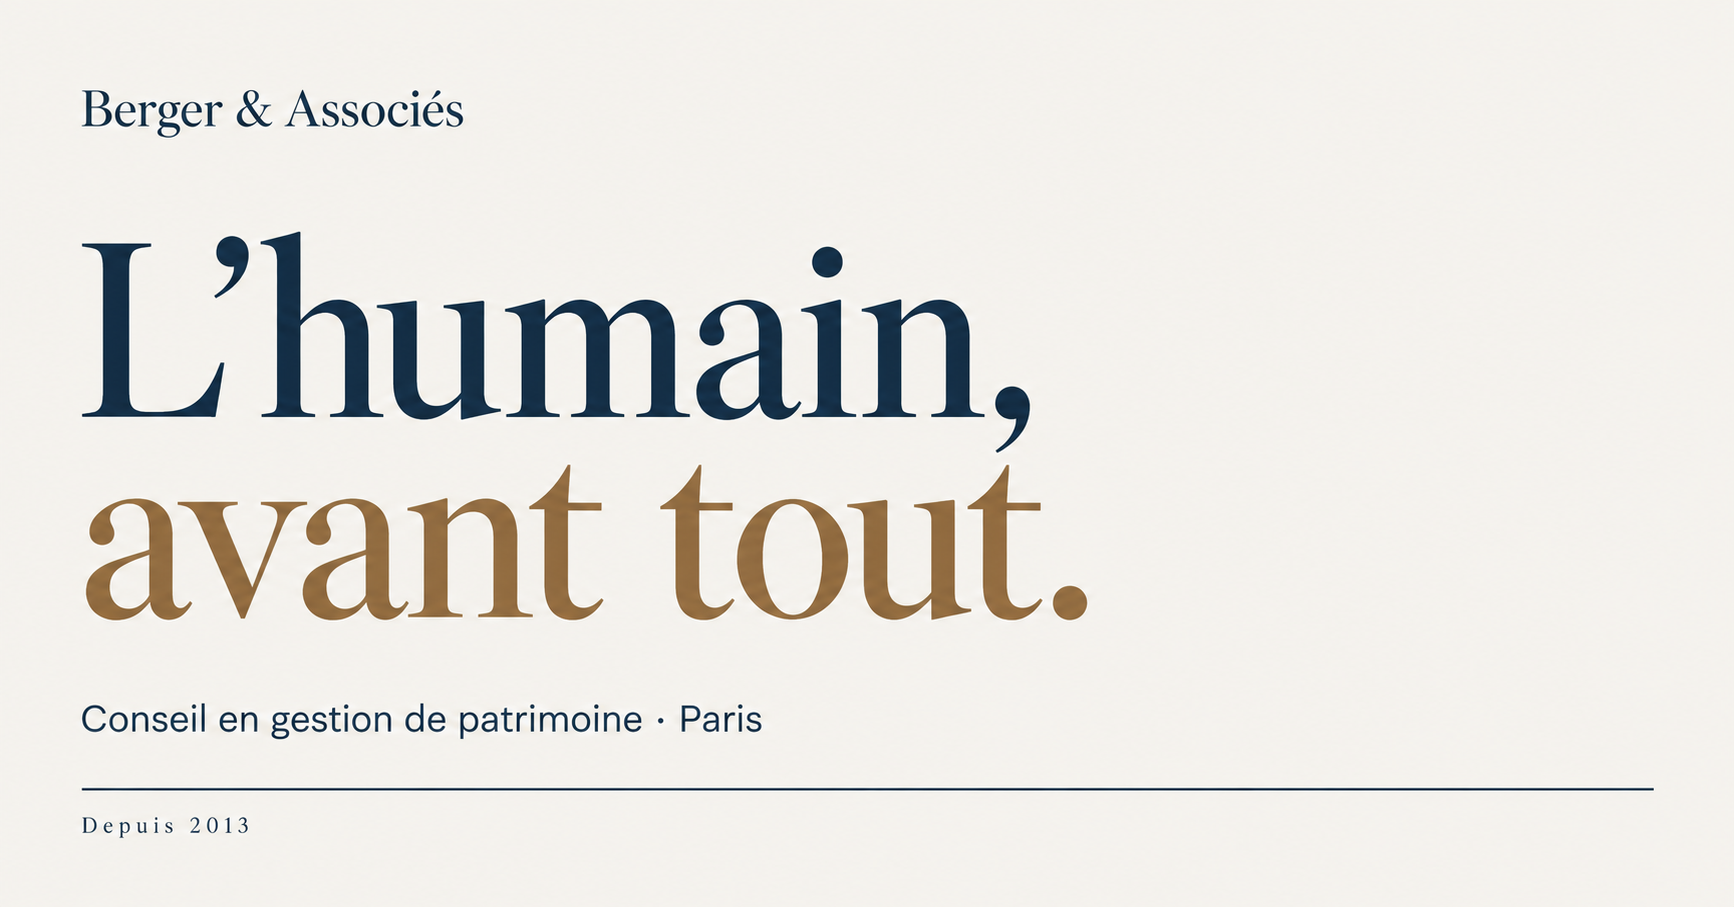
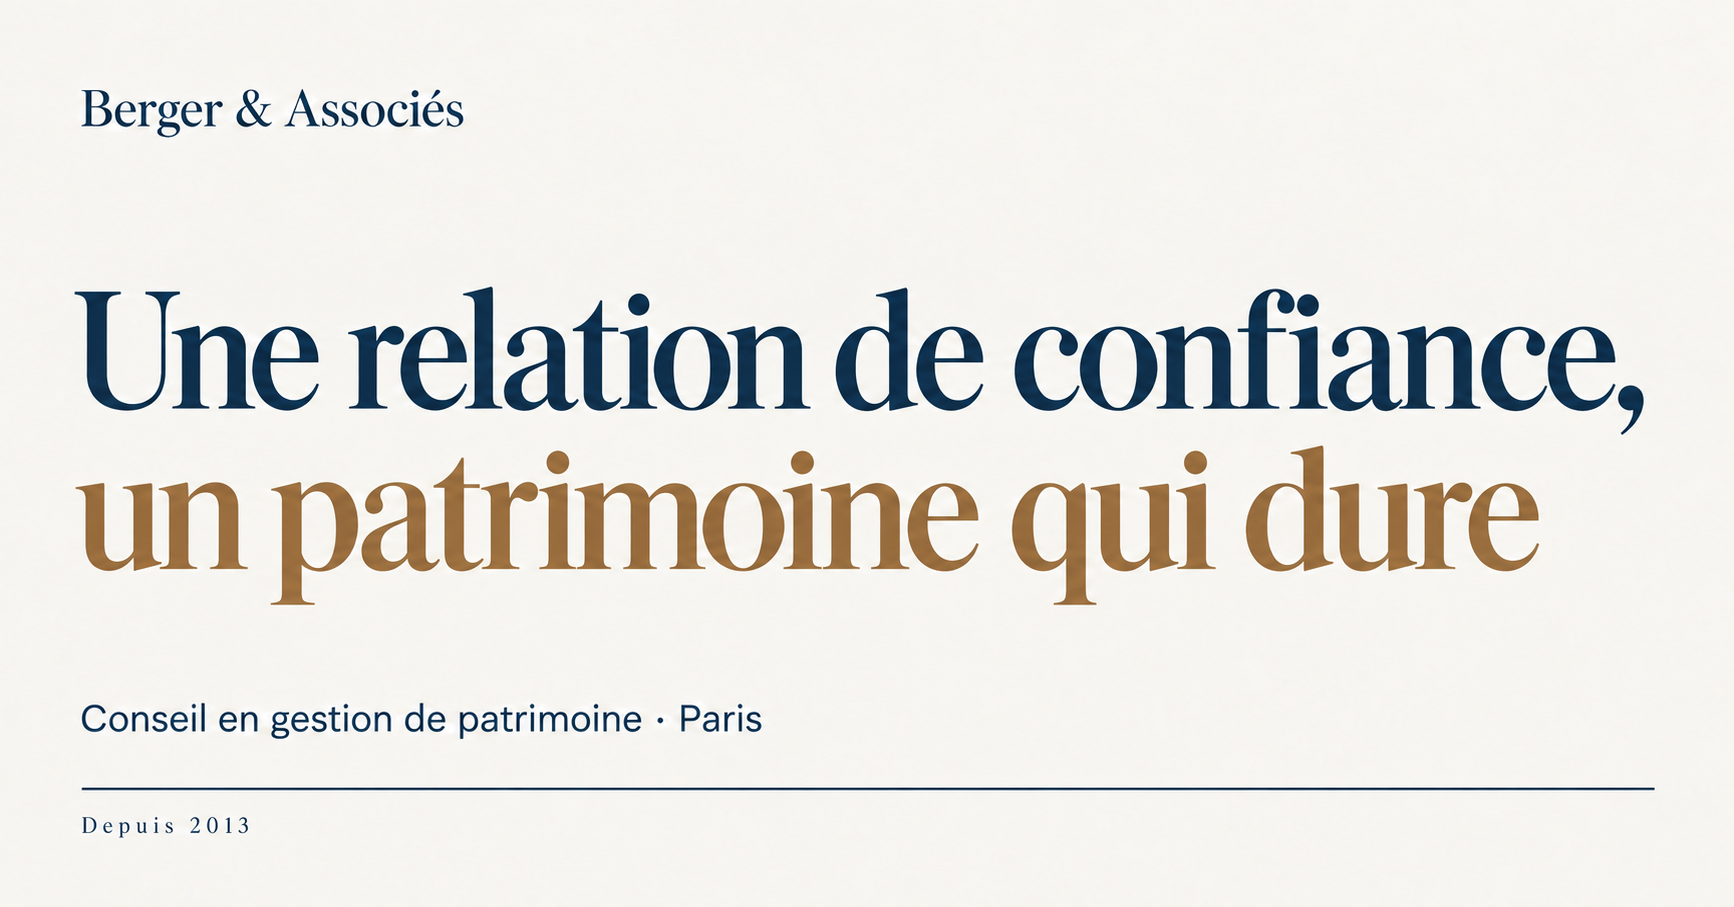
Intègre les retours de Marine sur les textes et les contacts

diff --git a/src/styles/home.css b/src/styles/home.css
@@ -1,7 +1,7 @@
 .hero { padding-top: clamp(3rem, 5.5vw, 5.5rem); }
 .hero__grid { display: grid; grid-template-columns: 1fr 1.05fr; gap: clamp(2rem, 5vw, 5rem); align-items: center; }
 .hero__copy { padding-block: 1.5rem; }
-.hero__title { font-family: var(--ff-serif); font-size: clamp(4.5rem, 7.2vw, 7.7rem); line-height: .97; font-weight: 400; letter-spacing: -.052em; margin: 2rem 0 1.7rem; }
+.hero__title { font-family: var(--ff-serif); font-size: clamp(3.2rem, 5.2vw, 5.5rem); line-height: 1.02; font-weight: 400; letter-spacing: -.04em; margin: 2rem 0 1.7rem; text-wrap: balance; }
 .hero__title em { font-style: normal; color: #896D49; }
 .hero__lead { font-size: 1rem; line-height: 1.85; color: var(--c-fg-muted); max-width: 410px; margin-bottom: 2rem; }
 .hero__signature { color: var(--c-fg-muted); font-size: .73rem; margin-top: 1.5rem; }
@@ -43,22 +43,23 @@
 .approach__step-label::before { content: '0' counter(steps) ' / '; margin-right: .5rem; }
 .approach__steps h3 { font-family: var(--ff-serif); font-weight: 400; font-size: 2.3rem; line-height: 1.12; letter-spacing: -.025em; margin-bottom: 1rem; }
 .approach__steps p { font-size: .88rem; color: var(--c-fg-muted); line-height: 1.85; max-width: 330px; }
-.approach__note { margin-top: 3rem; border-top: 1px solid #CCC6BC; padding-top: 1.2rem; color: var(--c-fg-muted); font-size: .76rem; }
+.approach__note { margin-top: 3rem; border-top: 1px solid #CCC6BC; padding-top: 1.2rem; color: var(--c-fg-muted); font-size: .9rem; line-height: 1.85; max-width: 860px; }
 
-.associates__inner { display: grid; grid-template-columns: 1fr 1.2fr; gap: clamp(3rem, 8vw, 8rem); }
+.associates__inner { display: grid; grid-template-columns: minmax(0, 1fr) minmax(0, 1.2fr); gap: clamp(3rem, 8vw, 8rem); align-items: start; }
 .associates__intro .section-title { margin-top: 1.5rem; }
 .associates__intro > p:not(.eyebrow) { font-size: .93rem; line-height: 1.85; color: var(--c-fg-muted); max-width: 325px; margin-top: 1.5rem; }
 .associates__location { display: block; font-size: .72rem; margin-top: 3rem; color: var(--c-fg-muted); }
 .associates__location sup { font-size: .65em; }
 .associates__list { list-style: none; }
-.associates__list li { border-top: 1px solid var(--c-divider); }
+.associates__list li { border-top: 1px solid var(--c-divider); padding-block: 1.8rem 2rem; }
 .associates__list li:last-child { border-bottom: 1px solid var(--c-divider); }
-.associates__list a { display: flex; justify-content: space-between; align-items: center; gap: 1rem; color: var(--c-navy); text-decoration: none; padding: 1.65rem .2rem; transition: color var(--dur-fast); }
+.associates__list a { display: flex; width: fit-content; max-width: 100%; align-items: center; gap: 1rem; color: var(--c-navy); text-decoration: none; padding-block: .5rem; transition: color var(--dur-fast); }
 .associates__list a:hover { color: var(--c-accent); opacity: 1; }
-.associates__identity { display: flex; flex-direction: column; align-items: flex-start; }
-.associates__role { font-size: .62rem; text-transform: uppercase; letter-spacing: .13em; color: var(--c-fg-muted); }
-.associates__name { font-family: var(--ff-serif); font-size: clamp(2.05rem, 3vw, 2.8rem); letter-spacing: -.025em; line-height: 1.3; margin-block: .3rem; }
-.associates__email { font-size: .72rem; color: var(--c-fg-muted); overflow-wrap: anywhere; }
+.associates__role { font-size: .78rem; line-height: 1.6; color: var(--c-fg-muted); }
+.associates__name { font-family: var(--ff-serif); font-weight: 400; font-size: clamp(2.05rem, 3vw, 2.8rem); letter-spacing: -.025em; line-height: 1.2; margin-bottom: .55rem; }
+.associates__biography { margin-block: 1.2rem .8rem; color: var(--c-fg-muted); font-size: .9rem; line-height: 1.85; }
+.associates__biography p + p { margin-top: .85rem; }
+.associates__email { font-size: .76rem; overflow-wrap: anywhere; }
 .associates__arrow { font-size: 1.55rem; }
 
 .contact { padding-block: clamp(4rem, 7vw, 6.5rem); background: #E8E4DB; }
@@ -69,7 +70,12 @@
 .contact__address-label { font-size: .67rem; text-transform: uppercase; letter-spacing: .12em; color: var(--c-fg-muted); }
 .contact__address address { display: flex; flex-direction: column; font-style: normal; gap: .75rem; padding-block: 1.3rem 1.7rem; font-size: 1.1rem; line-height: 1.6; }
 .contact__street-number { font-family: var(--ff-serif); font-size: 6rem; line-height: .9; }
-.contact__email { display: block; width: fit-content; margin-top: 2.5rem; font-size: .82rem; color: var(--c-fg); overflow-wrap: anywhere; text-decoration-color: #A0A09A; }
+.contact__people { list-style: none; max-width: 430px; }
+.contact__people li { border-top: 1px solid #BDB7AC; }
+.contact__people li:last-child { border-bottom: 1px solid #BDB7AC; }
+.contact__people a { display: flex; flex-direction: column; gap: .25rem; padding-block: .85rem; color: var(--c-fg); text-decoration: none; }
+.contact__people a span:first-child { font-size: .94rem; font-weight: 500; }
+.contact__people a span:last-child { font-size: .8rem; overflow-wrap: anywhere; }
 
 @media (max-width: 1000px) {
   .hero__grid { gap: 2rem; }
@@ -82,7 +88,7 @@
 @media (max-width: 900px) {
   .hero__grid { grid-template-columns: 1fr; gap: 2.5rem; }
   .hero__copy { padding-block: 0; }
-  .hero__title { font-size: clamp(4.6rem, 12vw, 7rem); }
+  .hero__title { font-size: clamp(3.2rem, 7.8vw, 5.5rem); max-width: 720px; }
   .hero__lead { max-width: 510px; }
   .hero__portraits { width: 100%; max-width: 660px; justify-self: end; }
   .hero__portrait img { height: clamp(310px, 60vw, 485px); }
@@ -96,11 +102,10 @@
   .contact__address { border-left: 0; border-top: 1px solid #BDB7AC; padding: 2.5rem 0 0; margin-top: 1rem; }
   .contact__address address { flex-direction: row; align-items: center; gap: 1.5rem; }
   .contact__street-number { font-size: 5rem; }
-  .contact__email { margin-top: 1.5rem; }
 }
 @media (max-width: 620px) {
   .hero { padding-top: 2.4rem; }
-  .hero__title { margin-top: 1.5rem; }
+  .hero__title { margin-top: 1.5rem; font-size: clamp(2.6rem, 9.5vw, 3.65rem); }
   .hero__portraits { gap: .8rem; }
   .hero__portrait img { height: 70vw; max-height: 370px; }
   .hero__portrait figcaption { font-size: .75rem; padding-top: .7rem; }
@@ -117,6 +122,4 @@
   .approach__steps { gap: 2rem; }
   .approach__step-label { margin-bottom: 1rem; }
   .approach__steps p { max-width: 100%; }
-  .associates__list a { padding-block: 1.45rem; }
-  .associates__email { font-size: .66rem; }
 }

diff --git a/src/data/associates.ts b/src/data/associates.ts
@@ -1,0 +1,34 @@
+export const associates = [
+  {
+    id: 'fabien-berger',
+    name: 'Fabien Berger',
+    contactName: 'Fabien Berger',
+    role: 'Conseiller en gestion de patrimoine, associé fondateur',
+    email: 'fabien.berger@berger-associes.fr',
+    biography: [
+      'J’ai fondé Berger & Associés en 2013. Au fil des années, j’ai constitué une équipe aux profils complémentaires, réunie autour d’une approche transversale de la gestion de patrimoine et d’une relation durable avec nos clients.',
+    ],
+  },
+  {
+    id: 'sabine-tellier',
+    name: 'Sabine Tellier',
+    contactName: 'Sabine Tellier',
+    role: 'Conseillère en gestion de patrimoine, associée',
+    email: 'sabine.tellier@berger-associes.fr',
+    biography: [
+      'Associée de Berger & Associés depuis 2016, je participe à la direction du cabinet et accompagne personnellement mes clients dans leurs décisions patrimoniales.',
+    ],
+  },
+  {
+    id: 'marine-gorin',
+    name: 'Marine Gorin (Guillo)',
+    contactName: 'Marine Gorin',
+    role: 'Conseillère en gestion de patrimoine, associée',
+    email: 'marine.gorin@berger-associes.fr',
+    biography: [
+      'Banquier privé chez BNP Paribas pendant sept ans, j’ai rejoint la gestion de patrimoine indépendante en 2022 pour conseiller mes clients avec plus de liberté et de sur-mesure.',
+      'Titulaire d’un Master 2 en gestion de patrimoine (IAE Gustave Eiffel, 2015) et des certifications AMF et EFPA, j’accompagne mes clients dans la construction de leur stratégie patrimoniale, en m’appuyant sur une veille juridique et fiscale permanente.',
+      'Je conseille également sur le choix des enveloppes d’investissement (assurance-vie, PER, PEA, compte-titres…) et construis des allocations d’actifs adaptées à chaque profil.',
+    ],
+  },
+];

diff --git a/tests/privacy-and-navigation.spec.ts b/tests/privacy-and-navigation.spec.ts
@@ -31,7 +31,7 @@ test('sur mobile, le menu permet de rejoindre les associés et se referme', asyn
   await page.getByRole('navigation', { name: 'Navigation principale mobile' }).getByRole('link', { name: 'Les associés' }).click();
   await expect(page).toHaveURL(/#associes$/);
   await expect(page.locator('.mobile-nav')).not.toHaveAttribute('open', '');
-  await expect(page.getByRole('link', { name: 'Écrire à Marine Gorin' })).toHaveAttribute('href', 'mailto:marine.gorin@berger-associes.fr');
+  await expect(page.locator('#associes').getByRole('link', { name: 'Écrire à Marine Gorin' })).toHaveAttribute('href', 'mailto:marine.gorin@berger-associes.fr');
   expect(await page.evaluate(() => document.documentElement.scrollWidth <= window.innerWidth)).toBe(true);
 });
 

diff --git a/docs/reprise-design-2026-09-26.md b/docs/reprise-design-2026-09-26.md
@@ -54,3 +54,21 @@ Compilation des cinq pages réussie. Neuf contrôles automatisés réussis : acc
 Les prévisualisations Cloudflare sont marquées `noindex, nofollow` lorsque la branche de construction diffère de `main`. Les liens sociaux utilisent alors l'adresse du déploiement. Ces réglages ne protègent pas l'aperçu par mot de passe : il reste consultable par toute personne connaissant son adresse.
 
 L'aperçu est destiné à recueillir le retour du cabinet avant la mise en ligne sur son domaine. Aucun abonnement, DNS ou état de publication Wix n'a été modifié.
+
+## Retours de Marine intégrés le 30 septembre
+
+Les couleurs et la sobriété sont conservées. L'accueil porte désormais « Une relation de confiance, un patrimoine qui dure » ; la section cabinet utilise « Construire ensemble, sur le long terme ». Les autres accroches proposées sont des alternatives, pas des slogans à cumuler.
+
+La section associés devient « Faisons connaissance » et précise que ceux qui dirigent le cabinet sont ceux qui conseillent les clients. La présentation de Marine Gorin (Guillo) reprend le parcours, le diplôme, les certifications et les expertises qu'elle a elle-même fournis, avec une légère mise en forme en trois paragraphes. Ces éléments sont déclaratifs et n'ont pas été vérifiés auprès des organismes cités.
+
+Pour Fabien, le texte court repose sur la création du cabinet en 2013 et la constitution d'une équipe aux profils complémentaires, attestées par l'accueil Wix sauvegardé. Pour Sabine, l'association depuis 2016 est attestée par la légende du portrait Wix ; la direction et l'accompagnement personnel reprennent le DER et le positionnement communiqué par Marine. Leurs diplômes, parcours antérieurs et expertises individuelles ne sont pas inventés. Leurs compléments biographiques ont été demandés à Fabien et restent attendus.
+
+La méthode précise le rôle de généralistes et le travail en interprofessionnalité avec des notaires, avocats et experts-comptables, qu'il s'agisse des conseils habituels du client ou d'autres experts. Le texte sur la transmission est aligné sur cette ouverture.
+
+La section contact est intitulée « Tout commence par un premier échange ». Les trois emails personnels remplacent l'adresse générique. Le pied de page, la page 404 et les données structurées utilisent également les contacts des associés ; aucune boîte mail n'est supprimée chez le fournisseur de messagerie.
+
+La vignette de partage `public/og.png` a été actualisée par une seule édition Imagegen intégrée : [prompt exact](imagegen-social-2026-09-30.txt). La nouvelle accroche et les autres mentions de l'image ont été relues. Les photos existantes sont conservées dans l'attente du choix des trois associés et du portrait de Marine.
+
+Les coordonnées et présentations sont réunies dans `src/data/associates.ts` pour éviter des écarts entre les différentes sections. L'aperçu de branche reste le lien à utiliser pour suivre les modifications ; les anciens liens de déploiement conservent leur version historique.
+
+Vérification du 30 septembre : compilation réussie, neuf tests existants réussis, aucune adresse générique ni ancienne accroche restante dans les sources. La relecture sémantique a également permis d'inclure l'adresse email visible dans le nom accessible de chaque lien des biographies.
